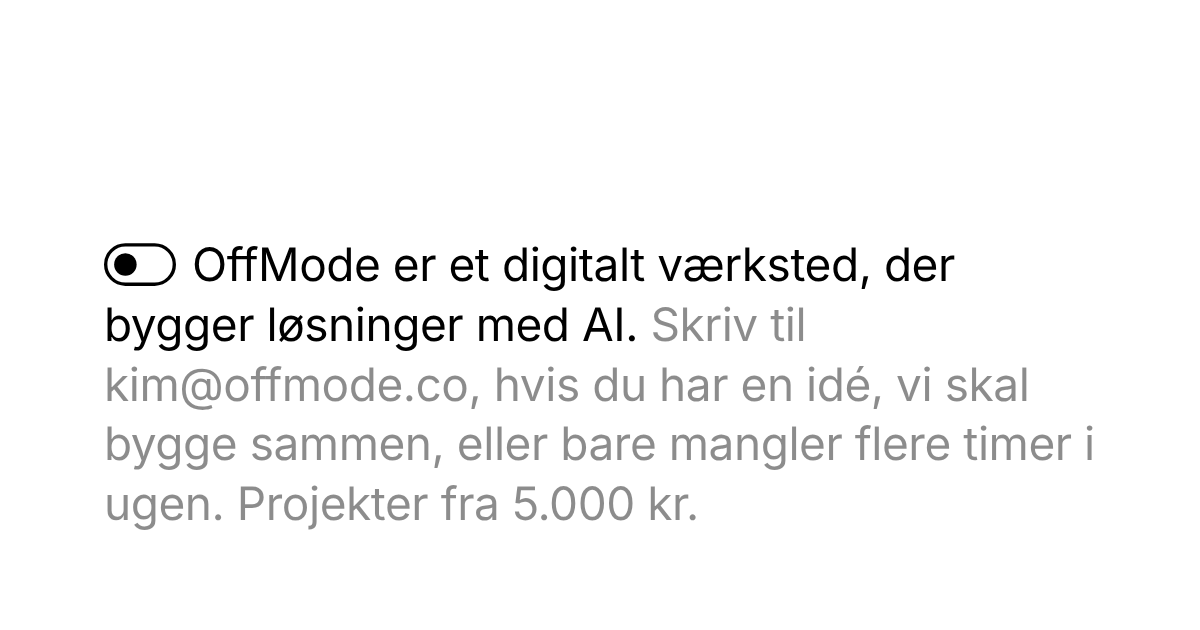
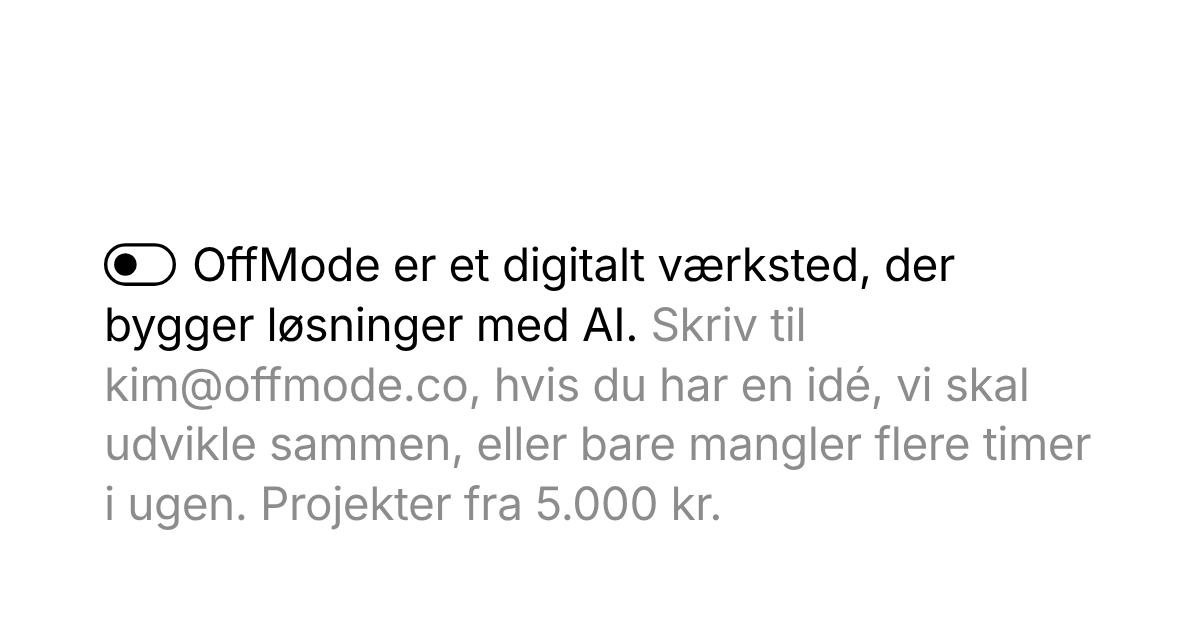
Avoid repeating 'bygge' in intro
Claude-Session: https://claude.ai/code/session_01JQ91VV55D3t8mimoyPje74

Changed region(s): [[0.0925, 0.6635, 0.925, 0.8444]]

diff --git a/index.html b/index.html
@@ -4,17 +4,17 @@
 <meta charset="utf-8">
 <meta name="viewport" content="width=device-width, initial-scale=1">
 <title>OffMode</title>
-<meta name="description" content="OffMode er et digitalt værksted, der bygger løsninger med AI. Skriv til kim@offmode.co, hvis du har en idé, vi skal bygge sammen, eller bare mangler flere timer i ugen. Projekter fra 5.000 kr.">
+<meta name="description" content="OffMode er et digitalt værksted, der bygger løsninger med AI. Skriv til kim@offmode.co, hvis du har en idé, vi skal udvikle sammen, eller bare mangler flere timer i ugen. Projekter fra 5.000 kr.">
 <meta property="og:type" content="website">
 <meta property="og:site_name" content="OffMode">
 <meta property="og:locale" content="da_DK">
 <meta property="og:url" content="https://offmode.co/">
 <meta property="og:title" content="OffMode">
-<meta property="og:description" content="OffMode er et digitalt værksted, der bygger løsninger med AI. Skriv til kim@offmode.co, hvis du har en idé, vi skal bygge sammen, eller bare mangler flere timer i ugen. Projekter fra 5.000 kr.">
+<meta property="og:description" content="OffMode er et digitalt værksted, der bygger løsninger med AI. Skriv til kim@offmode.co, hvis du har en idé, vi skal udvikle sammen, eller bare mangler flere timer i ugen. Projekter fra 5.000 kr.">
 <meta property="og:image" content="https://offmode.co/og.png">
 <meta property="og:image:width" content="1200">
 <meta property="og:image:height" content="630">
-<meta property="og:image:alt" content="OffMode er et digitalt værksted, der bygger løsninger med AI. Skriv til kim@offmode.co, hvis du har en idé, vi skal bygge sammen, eller bare mangler flere timer i ugen. Projekter fra 5.000 kr.">
+<meta property="og:image:alt" content="OffMode er et digitalt værksted, der bygger løsninger med AI. Skriv til kim@offmode.co, hvis du har en idé, vi skal udvikle sammen, eller bare mangler flere timer i ugen. Projekter fra 5.000 kr.">
 <meta name="twitter:card" content="summary_large_image">
 <link rel="icon" href="favicon.png" type="image/png" sizes="64x64">
 <link rel="icon" href="favicon.svg" type="image/svg+xml">
@@ -101,7 +101,7 @@
 </head>
 <body>
 <main>
-  <h1 class="intro"><span class="mark"><svg viewBox="0 0 32 19" aria-hidden="true"><rect x="0.75" y="0.75" width="30.5" height="17.5" rx="8.75" fill="none" stroke="currentColor" stroke-width="1.5"/><circle cx="9.5" cy="9.5" r="5" fill="currentColor"/></svg>OffMode</span> er et digitalt værksted, der bygger løsninger med AI. Skriv til <a class="mail" href="mailto:kim@offmode.co?subject=Gratis%20snak&amp;body=Hej%20Kim%2C%0A%0AJeg%20bruger%20for%20meget%20tid%20p%C3%A5%20%E2%80%A6%0A%0A">kim@offmode.co</a>, hvis du har en idé, vi skal bygge sammen, eller bare mangler flere timer i ugen. Projekter fra 5.000&nbsp;kr.</h1>
+  <h1 class="intro"><span class="mark"><svg viewBox="0 0 32 19" aria-hidden="true"><rect x="0.75" y="0.75" width="30.5" height="17.5" rx="8.75" fill="none" stroke="currentColor" stroke-width="1.5"/><circle cx="9.5" cy="9.5" r="5" fill="currentColor"/></svg>OffMode</span> er et digitalt værksted, der bygger løsninger med AI. Skriv til <a class="mail" href="mailto:kim@offmode.co?subject=Gratis%20snak&amp;body=Hej%20Kim%2C%0A%0AJeg%20bruger%20for%20meget%20tid%20p%C3%A5%20%E2%80%A6%0A%0A">kim@offmode.co</a>, hvis du har en idé, vi skal udvikle sammen, eller bare mangler flere timer i ugen. Projekter fra 5.000&nbsp;kr.</h1>
   <section>
     <div class="projects">
       <details>
